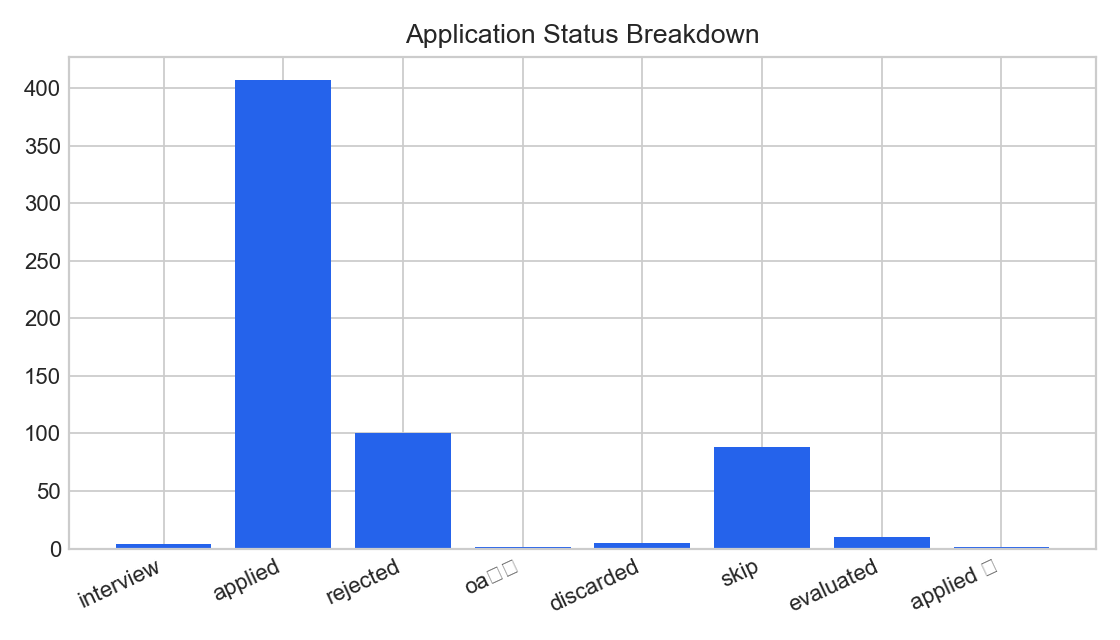
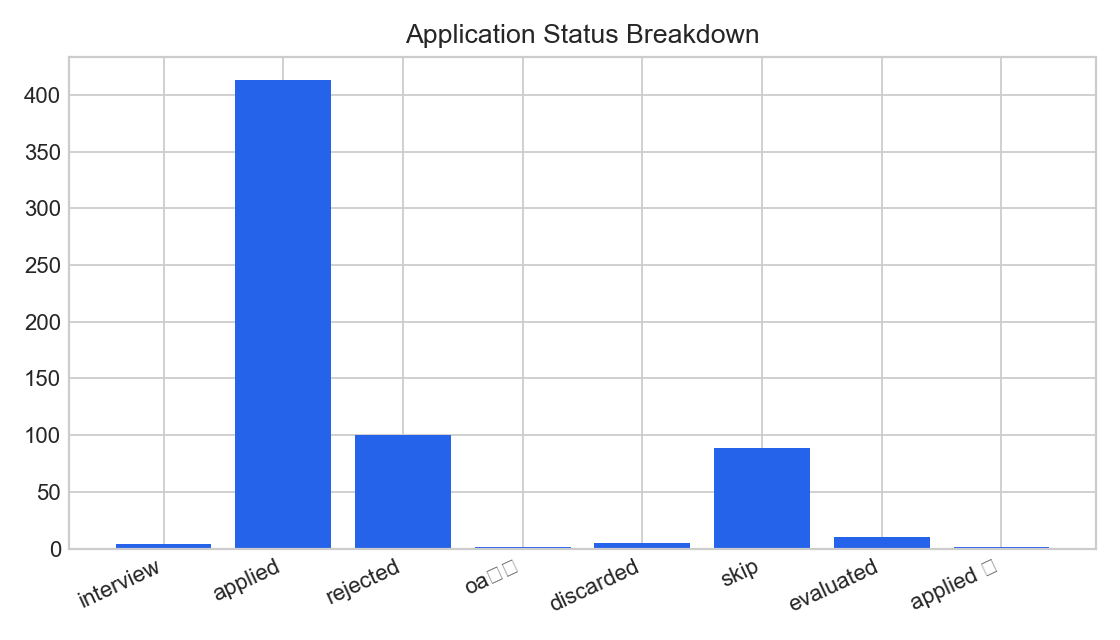
Refresh analytics for 774 merged roles (2026-07-29)

diff --git a/data/daily_summary.md b/data/daily_summary.md
@@ -1,6 +1,6 @@
 # Daily Job Search Summary
 
-_Last refreshed: 2026-07-28T22:22:47-07:00_
+_Last refreshed: 2026-07-29T22:14:06-07:00_
 
 ## Positioning
 
@@ -10,37 +10,37 @@ _Last refreshed: 2026-07-28T22:22:47-07:00_
 
 ## Snapshot
 
-- Tracked roles: 767
-- Active roles: 421
+- Tracked roles: 774
+- Active roles: 427
 - Response rate: 0.8%
 - LinkedIn outreach sent: 28
 - Pending pipeline items: 155
 - Recommended pipeline items: 36
-- Average evaluated score: 3.37
+- Average evaluated score: 3.38
 
 ## Status Breakdown
 
-- applied: 407
+- applied: 413
 - applied ✅: 1
 - discarded: 5
 - evaluated: 10
 - interview: 4
 - oa完成: 1
 - rejected: 100
-- skip: 88
+- skip: 89
 
 ## Recent Activity
 
+- 2026-07-29: Kemper | Associate, Audit Data Analyst | applied
+- 2026-07-29: Socure | Data Scientist II | skip
+- 2026-07-29: Cruisebound | Data Scientist | applied
+- 2026-07-29: Goldman Sachs | Tax, Business and Data Intelligence, Analyst | applied
+- 2026-07-29: Emory Healthcare | Data Analyst II | applied
+- 2026-07-29: EPCVIP | Product Analyst | applied
+- 2026-07-29: Mattel | Consumer Data Analyst | applied
 - 2026-07-28: Alta | Civic Data Analyst (Sustainable Mobility) | applied
 - 2026-07-28: Omega | Junior Data Analyst - Healthcare Operations & Process Analytics | applied
 - 2026-07-28: WSP | Early Career Project Controls Data Analyst | applied
-- 2026-07-28: Core Specialty | Actuarial Data Analyst | applied
-- 2026-07-28: LexisNexis | Data Scientist I (DSAP) | applied
-- 2026-07-28: Flatiron Health | Data Analyst - Product Data Science | applied
-- 2026-07-28: Cornerstone Research | Data Analyst | applied
-- 2026-07-28: Foxconn | Data Analyst | applied
-- 2026-07-28: Capgemini | Junior Data Engineer/Junior Data Scientist | applied
-- 2026-07-28: University of Chicago | Data Scientist I supporting social science research, analytics, and AI initiatives | applied
 
 ## Recommended Opportunity Queue
 
@@ -62,13 +62,13 @@ _Last refreshed: 2026-07-28T22:22:47-07:00_
 
 ## Needs Attention
 
-- Microsoft | Applied Scientist: Microsoft AI Development Acceleration Program | 138 days with no response
-- Nvidia | Deep Learning Architect, LLM Inference - New College Grad 2026 | 138 days with no response
-- Google | Software Engineer II, Early Career | 134 days with no response
-- Apple | AIML - Machine Learning Research | 127 days with no response
-- Amazon | Data Engineer II | 125 days with no response
-- Amazon | Software Development Engineer – Amazon Leo (US) | 125 days with no response
-- Amazon | Software Development Engineer - 2026 (US) | 125 days with no response
-- Amazon | 软件开发工程师, (New graduate or Entry-level Engineer, 0-2 Years) | 125 days with no response
-- Esri | Product Test Engineer II - Feature Server | 125 days with no response
-- Esri | Product Engineer II - ArcGIS Enterprise Sharing API | 125 days with no response
+- Microsoft | Applied Scientist: Microsoft AI Development Acceleration Program | 139 days with no response
+- Nvidia | Deep Learning Architect, LLM Inference - New College Grad 2026 | 139 days with no response
+- Google | Software Engineer II, Early Career | 135 days with no response
+- Apple | AIML - Machine Learning Research | 128 days with no response
+- Amazon | Data Engineer II | 126 days with no response
+- Amazon | Software Development Engineer – Amazon Leo (US) | 126 days with no response
+- Amazon | Software Development Engineer - 2026 (US) | 126 days with no response
+- Amazon | 软件开发工程师, (New graduate or Entry-level Engineer, 0-2 Years) | 126 days with no response
+- Esri | Product Test Engineer II - Feature Server | 126 days with no response
+- Esri | Product Engineer II - ArcGIS Enterprise Sharing API | 126 days with no response
